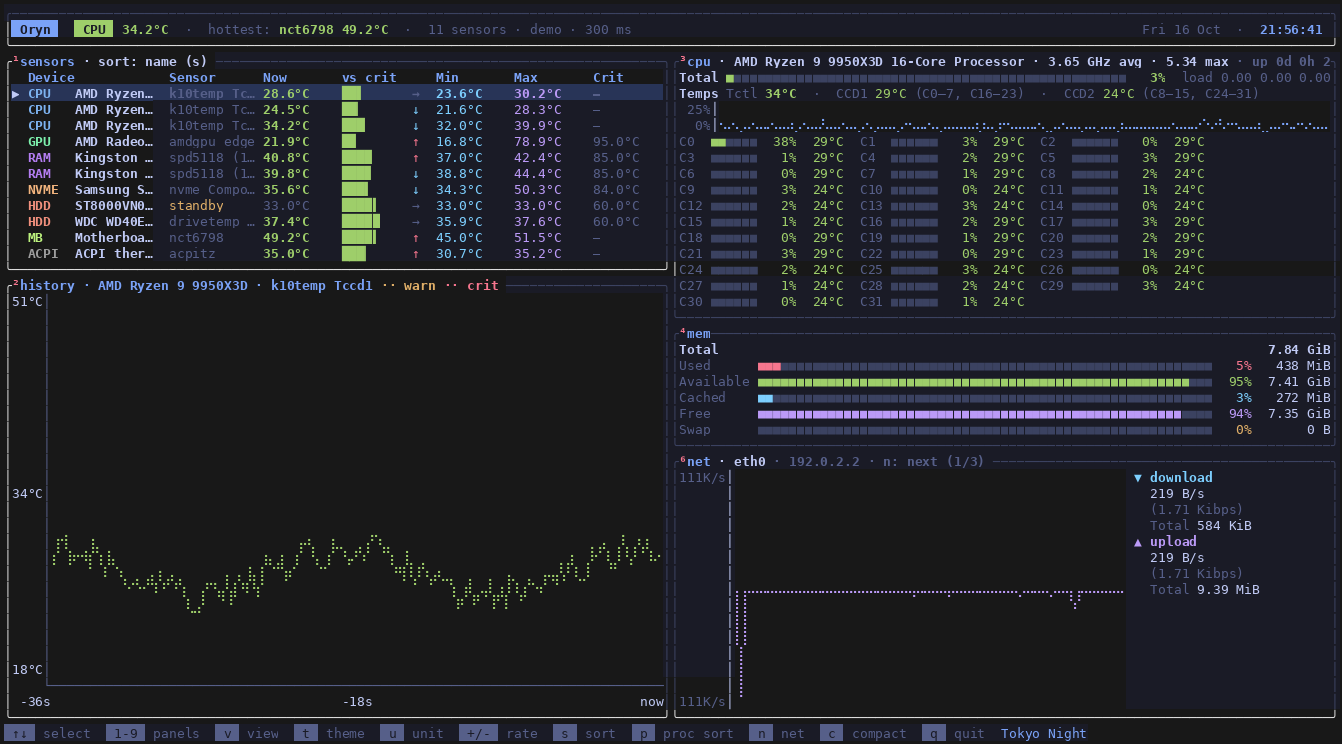
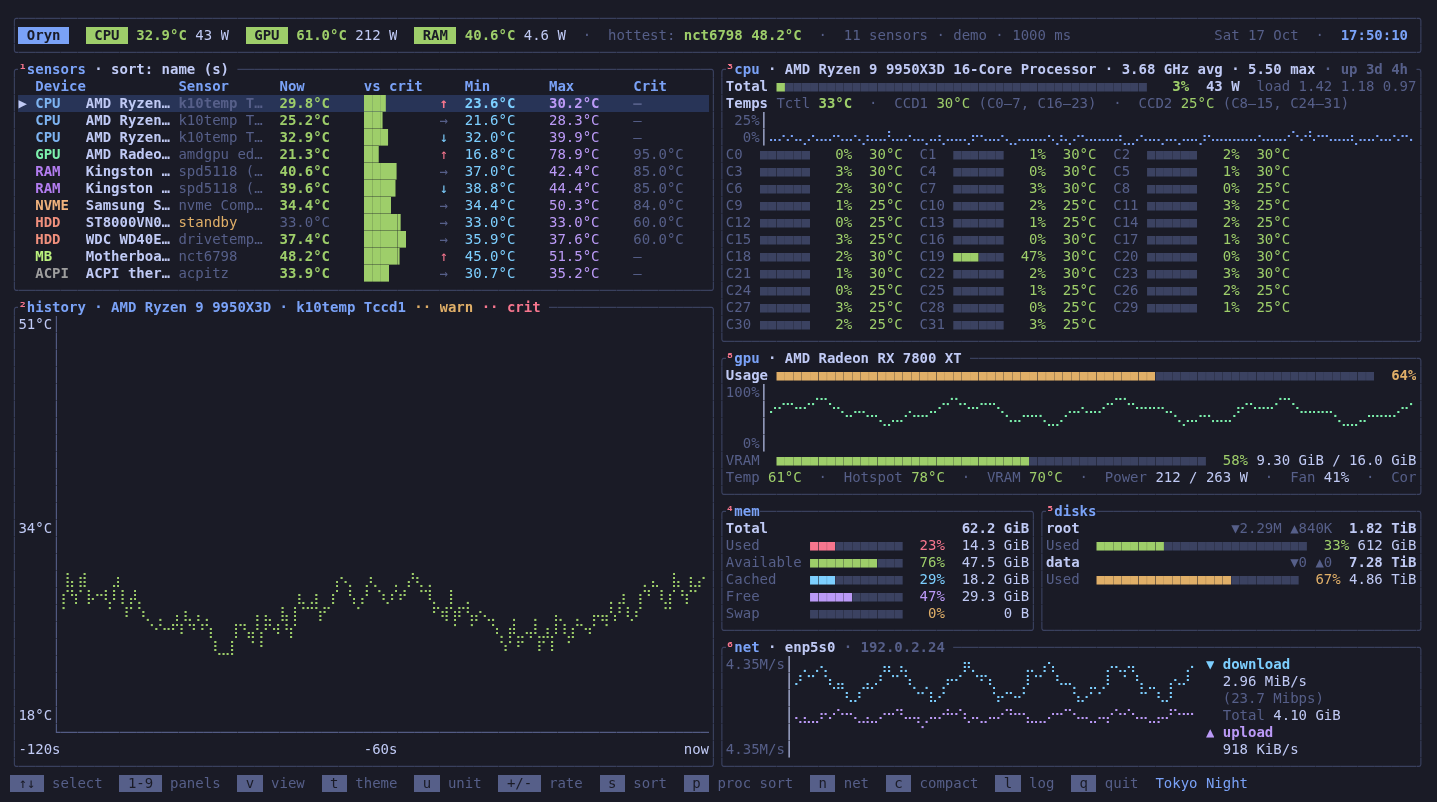
New README screenshot, generated from the demo
Shows the CPU/GPU/RAM header with power draw, the GPU panel and the
l log key. src/screenshot.rs renders it off-screen (an ignored test) with
made-up memory, disk, network and GPU figures, so nothing from the
machine it runs on ends up in the public image.

diff --git a/src/screenshot.rs b/src/screenshot.rs
@@ -1,0 +1,214 @@
+//! Renders the README screenshot (`docs/screenshot.png`) without a terminal.
+//!
+//! `--demo` only simulates the sensors and the CPU panel; memory, disks,
+//! network and GPU would come from the machine it runs on and end up in a
+//! public picture. So this draws the demo with made-up figures for those
+//! too, into ratatui's test backend, and writes the cells as an HTML page:
+//!
+//! ```sh
+//! ORYN_SCREENSHOT=target/screenshot.html cargo test screenshot -- --ignored
+//! chromium --headless --hide-scrollbars --force-device-scale-factor=1 \
+//!     --window-size=1437,802 --screenshot=docs/screenshot.png target/screenshot.html
+//! ```
+//!
+//! The test prints the exact `--window-size` for the page.
+
+use std::collections::VecDeque;
+use std::fmt::Write as _;
+use std::time::Duration;
+
+use ratatui::{backend::TestBackend, buffer::Buffer, style::Color, style::Modifier, Terminal};
+
+use crate::gpustats::GpuView;
+use crate::sensors::DemoSource;
+use crate::sysstats::{DiskInfo, Mem, NetInfo};
+use crate::{draw, themes, App, PanelLayout, NP, P_PROC, P_SPECS};
+
+const COLS: u16 = 168;
+const ROWS: u16 = 46;
+/// DejaVu Sans Mono: advance width 1233/2048 em.
+const FONT_PX: f64 = 14.0;
+const CELL_W: f64 = FONT_PX * 1233.0 / 2048.0;
+const LINE_PX: f64 = 17.0;
+const PAD: f64 = 10.0;
+const GIB: u64 = 1 << 30;
+
+/// A wave between `lo` and `hi`, for the made-up history graphs.
+fn wave(n: usize, lo: f64, hi: f64, period: f64) -> VecDeque<f64> {
+    (0..n)
+        .map(|i| {
+            let x = i as f64 / period * std::f64::consts::TAU;
+            lo + (hi - lo) * (0.5 + 0.35 * x.sin() + 0.15 * (x * 3.7).sin())
+        })
+        .collect()
+}
+
+fn demo_app() -> App {
+    crate::sysstats::set_demo();
+    // Everything except the process list and the specs, which would show
+    // this machine's processes, host name and hardware.
+    let mut show = [true; NP];
+    show[P_PROC] = false;
+    show[P_SPECS] = false;
+    let theme = themes::find("tokyo-night").expect("Tokyo Night theme");
+    let mut app = App::new(Box::new(DemoSource::new()), Duration::from_millis(1000), theme, show, PanelLayout::default());
+    // Fill the history graphs.
+    for _ in 0..130 {
+        app.sample();
+    }
+
+    let s = &mut app.stats;
+    s.uptime = 3 * 86400 + 4 * 3600 + 17 * 60;
+    s.load = (1.42, 1.18, 0.97);
+    s.mem = Mem {
+        total: 62 * GIB + GIB / 4,
+        used: 14 * GIB + GIB / 3,
+        available: 47 * GIB + GIB / 2,
+        cached: 18 * GIB + GIB / 5,
+        free: 29 * GIB + GIB / 3,
+        swap_total: 16 * GIB,
+        swap_used: 0,
+    };
+    s.disks = vec![
+        DiskInfo {
+            label: "root".into(),
+            mount: "/".into(),
+            total: 1863 * GIB,
+            used: 612 * GIB,
+            read_rate: 2.4e6,
+            write_rate: 860e3,
+        },
+        DiskInfo {
+            label: "data".into(),
+            mount: "/mnt/data".into(),
+            total: 7452 * GIB,
+            used: 4980 * GIB,
+            read_rate: 0.0,
+            write_rate: 0.0,
+        },
+    ];
+    let hist = crate::sysstats::HIST;
+    s.nets = vec![NetInfo {
+        name: "enp5s0".into(),
+        // TEST-NET-1: an address reserved for documentation.
+        ip: Some("192.0.2.24".into()),
+        rx_rate: 3.1e6,
+        tx_rate: 940e3,
+        rx_total: 41 * GIB / 10,
+        tx_total: 612 << 20,
+        rx_hist: wave(hist, 0.4e6, 4.2e6, 23.0),
+        tx_hist: wave(hist, 0.2e6, 1.6e6, 17.0),
+    }];
+    s.net_sel = 0;
+
+    app.gpu.gpus = vec![GpuView {
+        name: "AMD Radeon RX 7800 XT".into(),
+        util: Some(64.0),
+        vram_used: Some(9.3 * GIB as f64),
+        vram_total: Some(16.0 * GIB as f64),
+        temp: Some(61.0),
+        hotspot: Some(78.0),
+        vram_temp: Some(70.0),
+        vram_crit: Some(100.0),
+        power_w: Some(212.0),
+        power_limit_w: Some(263.0),
+        fan_pct: Some(41.0),
+        core_mhz: Some(2430.0),
+        mem_mhz: Some(2438.0),
+        hist: wave(hist, 40.0, 80.0, 29.0).into_iter().map(|v| v as f32).collect(),
+        ..Default::default()
+    }];
+    app
+}
+
+fn css(c: Color) -> Option<String> {
+    Some(match c {
+        Color::Rgb(r, g, b) => format!("#{r:02x}{g:02x}{b:02x}"),
+        Color::Reset => return None,
+        Color::Black => "#15161e".into(),
+        Color::Red => "#f7768e".into(),
+        Color::Green => "#9ece6a".into(),
+        Color::Yellow => "#e0af68".into(),
+        Color::Blue => "#7aa2f7".into(),
+        Color::Magenta => "#bb9af7".into(),
+        Color::Cyan => "#7dcfff".into(),
+        Color::Gray => "#a9b1d6".into(),
+        Color::DarkGray => "#414868".into(),
+        Color::White => "#c0caf5".into(),
+        other => panic!("screenshot: no CSS for {other:?}"),
+    })
+}
+
+fn escape(s: &str) -> String {
+    s.replace('&', "&amp;").replace('<', "&lt;").replace('>', "&gt;")
+}
+
+/// The buffer as a page of colored text: one fixed-size box per cell, so
+/// glyphs from a fallback font (braille, arrows) can't shift the grid.
+fn html(buf: &Buffer, bg: &str, fg: &str) -> String {
+    let w = buf.area.width as usize;
+    let mut rows = String::new();
+    for y in 0..buf.area.height as usize {
+        rows.push_str("<div>");
+        // Oryn draws no double-width characters, so every cell is one column.
+        for cell in &buf.content()[y * w..(y + 1) * w] {
+            let (mut f, mut b) = (css(cell.fg), css(cell.bg));
+            if cell.modifier.contains(Modifier::REVERSED) {
+                (f, b) = (b.or(Some(bg.into())), f.or(Some(fg.into())));
+            }
+            let mut style = String::new();
+            if let Some(f) = f {
+                let _ = write!(style, "color:{f};");
+            }
+            if let Some(b) = b {
+                let _ = write!(style, "background:{b};");
+            }
+            if cell.modifier.contains(Modifier::BOLD) {
+                style.push_str("font-weight:bold;");
+            }
+            if cell.modifier.contains(Modifier::DIM) {
+                style.push_str("opacity:.6;");
+            }
+            if cell.modifier.contains(Modifier::ITALIC) {
+                style.push_str("font-style:italic;");
+            }
+            if cell.modifier.contains(Modifier::UNDERLINED) {
+                style.push_str("text-decoration:underline;");
+            }
+            let sym = cell.symbol();
+            let sym = escape(if sym.is_empty() { " " } else { sym });
+            if style.is_empty() {
+                let _ = write!(rows, "<i>{sym}</i>");
+            } else {
+                let _ = write!(rows, "<i style=\"{style}\">{sym}</i>");
+            }
+        }
+        rows.push_str("</div>");
+    }
+    format!(
+        "<!doctype html><meta charset=utf-8><style>\
+         html,body{{margin:0;background:{bg}}}\
+         body{{padding:{PAD}px;color:{fg};font:{FONT_PX}px/{LINE_PX}px 'DejaVu Sans Mono',monospace}}\
+         div{{height:{LINE_PX}px;white-space:nowrap}}\
+         i{{display:inline-block;width:{CELL_W:.4}px;height:{LINE_PX}px;overflow:hidden;\
+         font-style:normal;text-align:center;white-space:pre;vertical-align:top}}\
+         </style><body>{rows}</body>"
+    )
+}
+
+#[test]
+#[ignore = "writes the README screenshot page; run on request"]
+fn screenshot() {
+    let mut app = demo_app();
+    let mut term = Terminal::new(TestBackend::new(COLS, ROWS)).unwrap();
+    term.draw(|f| draw(f, &mut app)).unwrap();
+    let th = app.th();
+    let bg = css(th.bg).unwrap_or_else(|| "#1a1b26".into());
+    let fg = css(th.fg).unwrap_or_else(|| "#c0caf5".into());
+    let page = html(term.backend().buffer(), &bg, &fg);
+    let out = crate::env_str("SCREENSHOT").unwrap_or_else(|| "target/screenshot.html".into());
+    std::fs::write(&out, page).unwrap();
+    let w = (COLS as f64 * CELL_W + 2.0 * PAD).ceil();
+    let h = (ROWS as f64 * LINE_PX + 2.0 * PAD).ceil();
+    println!("wrote {out}; screenshot it with --window-size={w},{h}");
+}

diff --git a/src/main.rs b/src/main.rs
@@ -59,6 +59,8 @@ mod panels;
 mod power;
 mod procctl;
 mod report;
+#[cfg(test)]
+mod screenshot;
 mod sensors;
 mod smart;
 mod specs;

diff --git a/README.md b/README.md
@@ -11,7 +11,7 @@ you can show, hide and rearrange.
 
 ![Oryn in the Tokyo Night color scheme](docs/screenshot.png)
 
-<sub>Screenshot: `oryn --demo` (simulated sensors) in the Tokyo Night scheme.</sub>
+<sub>Screenshot: `oryn --demo` in the Tokyo Night scheme, with simulated sensors and load.</sub>
 
 ## Features
 
